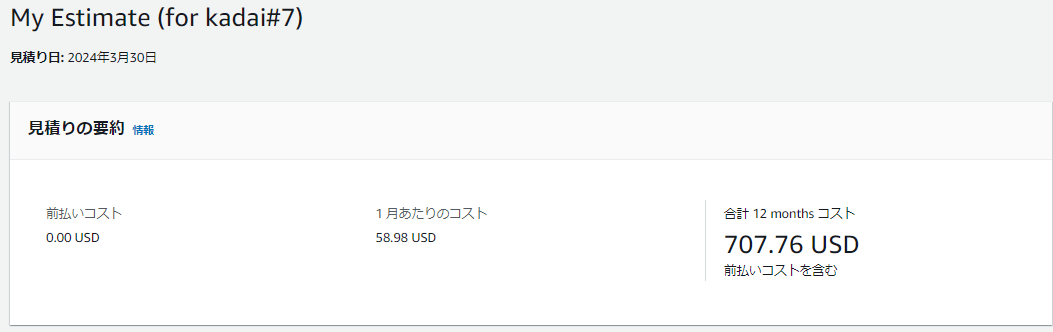
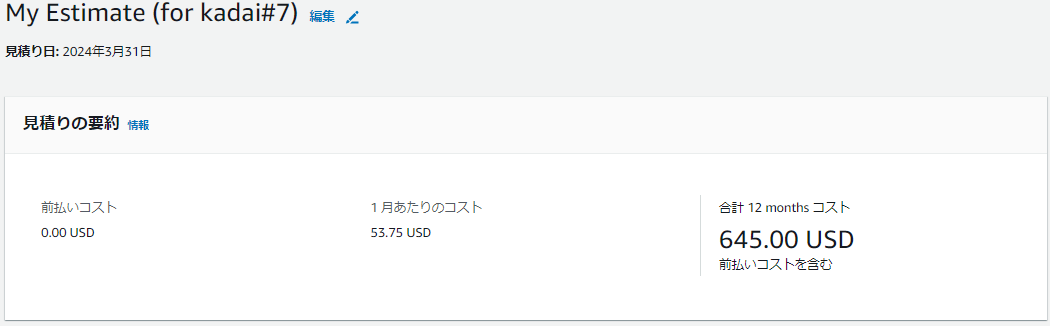
update pricing calculation

diff --git a/lecture07.md b/lecture07.md
@@ -21,7 +21,7 @@
 
 ### セキュリティ対策コスト
 
-- 上記で検討したACMおよびAWS WAFを追加したリソース内容の見積 [URL](https://calculator.aws/#/estimate?id=e3a2fe1ab35cf20d0ef4ed3069290984a2adbfc2)  
+- 上記で検討したACMおよびAWS WAFを追加したリソース内容の見積 [URL](https://calculator.aws/#/estimate?id=36de21e99e94661c41c26a017083b31cba572471)  
   利用条件にもよるが、決して安い追加コストとはいえないと認識する。  
   
   ![図](images_lec7/cost_kadai7.PNG)  
@@ -30,7 +30,7 @@
   ![図](images_lec7/Security_added.PNG)  
 
 
-- （参考比較）課題5までに作成したリソース内容の見積（課題6として作成したもの）[URL](https://calculator.aws/#/estimate?id=85bdc6fa23d776f666165d251d2d1bc05e66e22d)  
+- （参考比較）課題5までに作成したリソース内容の見積（課題6として作成したもの）[URL](https://calculator.aws/#/estimate?id=0ae050b001df0e87b99bff18c4b37ed7f1043155)  
   ![図](images_lec7/cost_kadai6.PNG)  
 
   図4：構成図（ACM・AWS WAF追加前）
